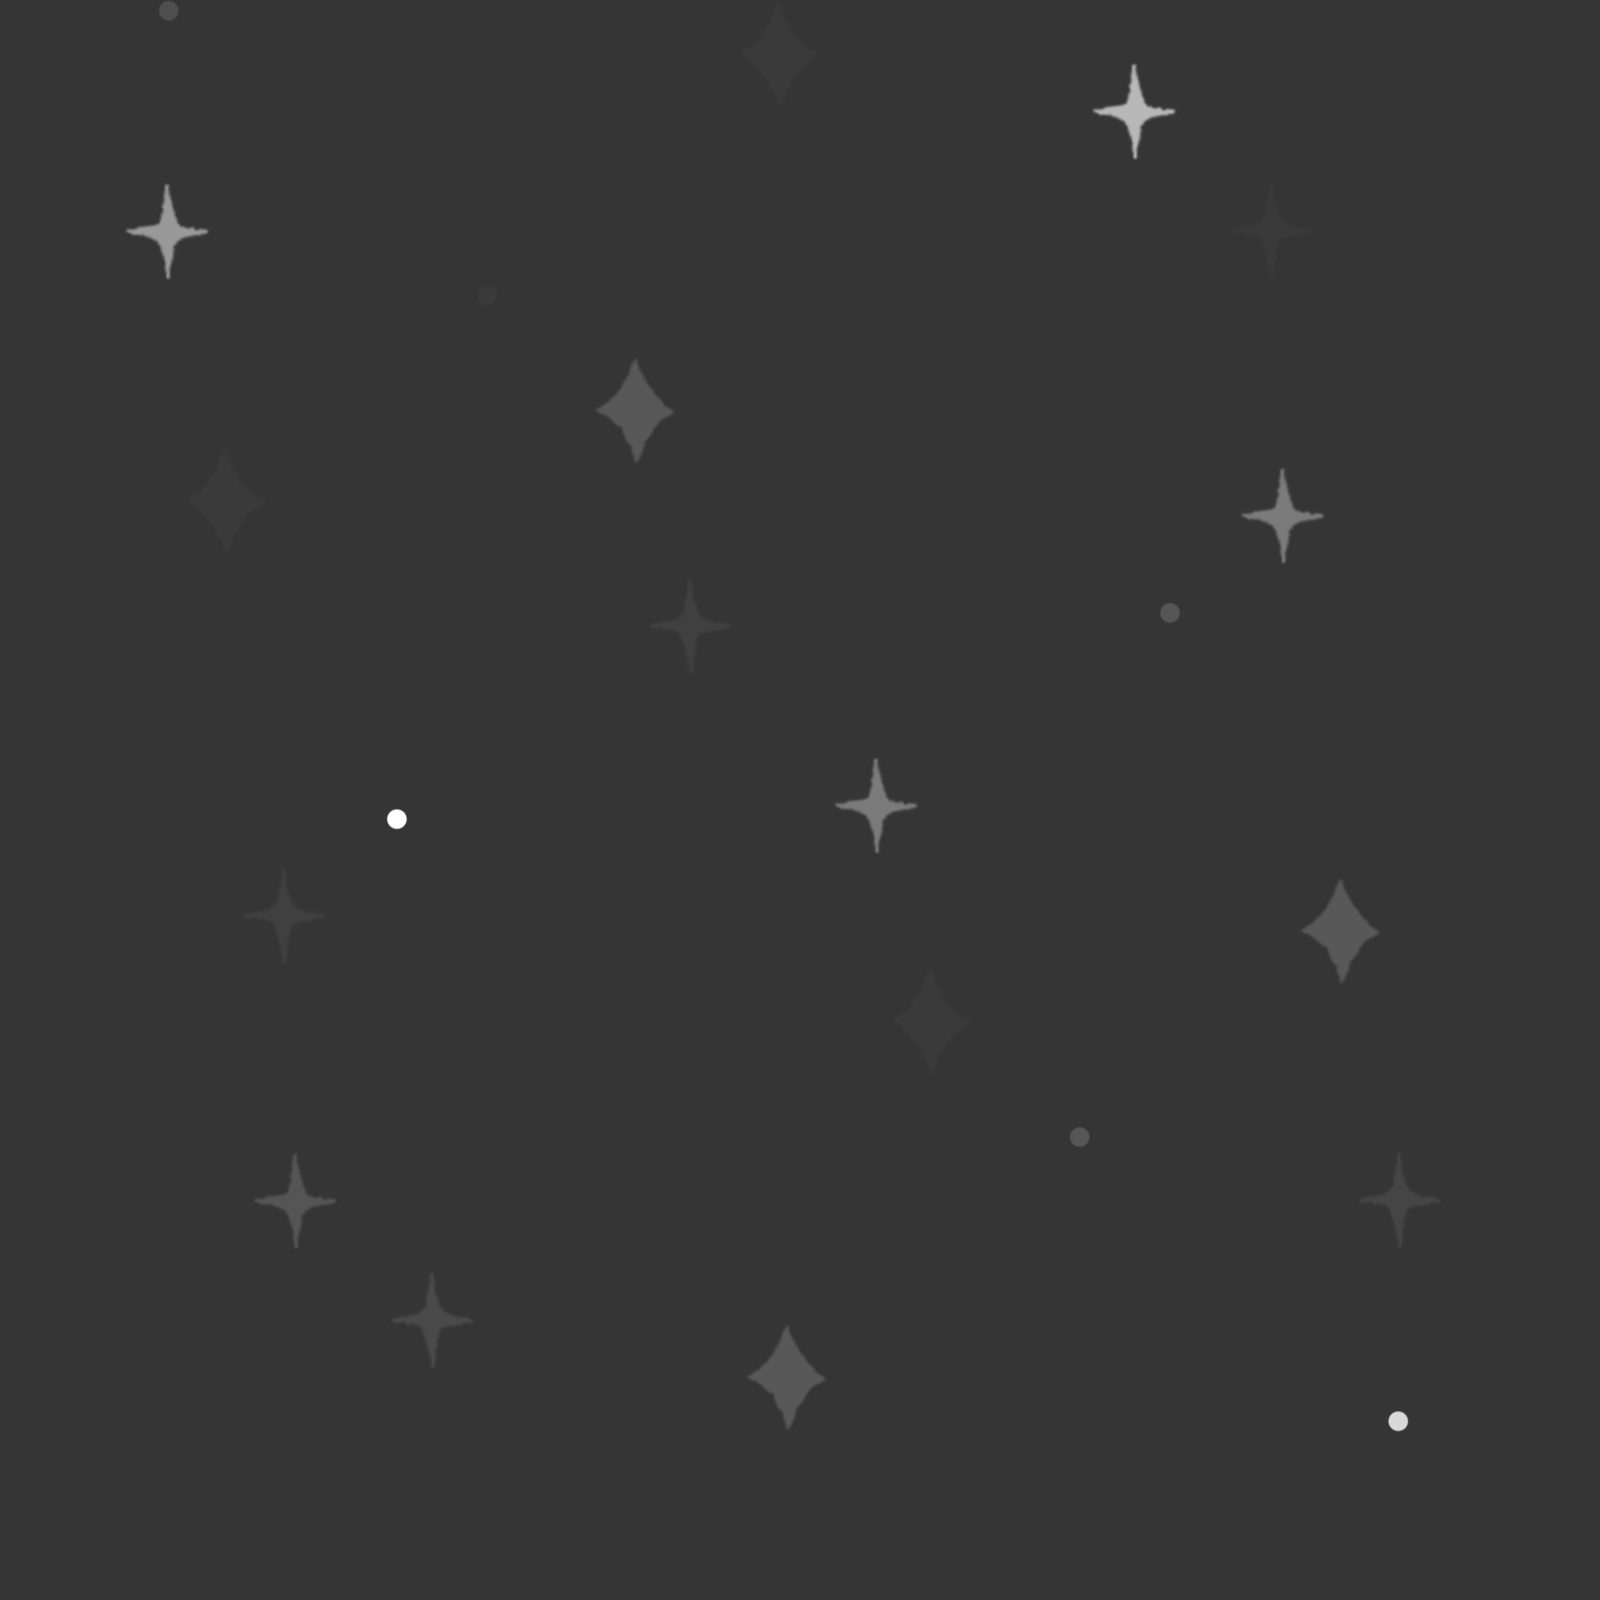
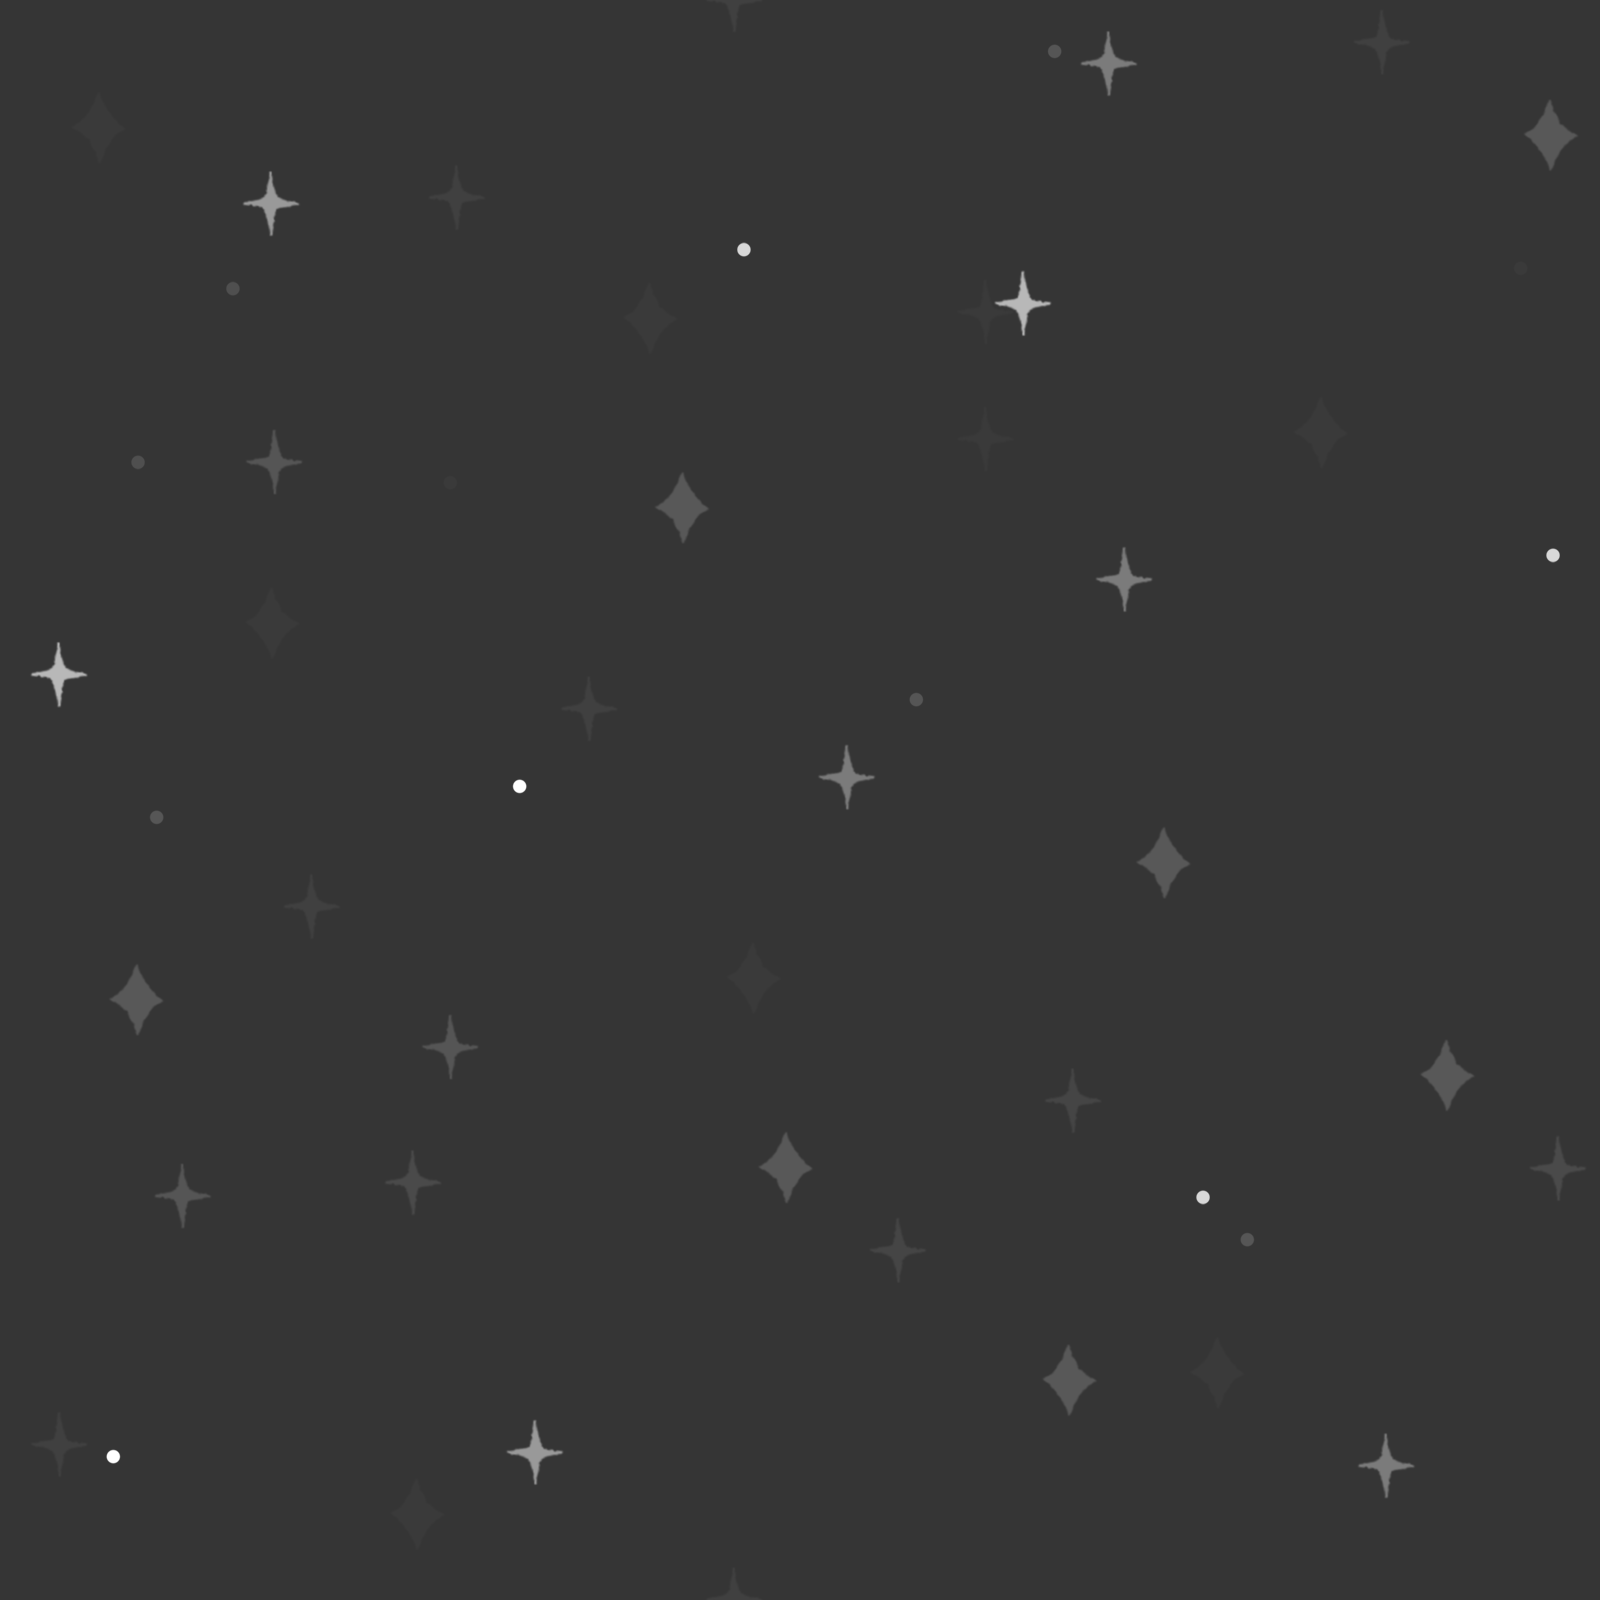
wip

diff --git a/apps/frontend/src/styles.css b/apps/frontend/src/styles.css
@@ -140,14 +140,14 @@ canvas,
 .lobby-pattern-bg {
   background-color: #3a3a3a;
   background-image: url('/assets/png/pattern_1.png');
-  background-size: 240px 240px;
+  background-size: 800px 800px;
   animation: board-pattern-drift 40s linear infinite;
 }
 
 .board-pattern-bg {
   background-color: #e3e3e3;
   background-image: url('/assets/png/pattern_2.png');
-  background-size: 240px 240px;
+  background-size: 800px 800px;
   animation: board-pattern-drift 40s linear infinite;
 }
 

diff --git a/apps/frontend/src/app/features/game/board/board-header.component.ts b/apps/frontend/src/app/features/game/board/board-header.component.ts
@@ -1,5 +1,4 @@
 import {Component, input, output} from '@angular/core';
-import {SvgComponent} from '../../shared/svg/svg.component';
 import {CountdownBarComponent} from '../../shared/countdown-bar/countdown-bar.component';
 import {AnimPresenceDirective} from '../../shared/animations/anim-on-init.directive';
 import type {BoardHeaderViewModel} from './board-view-models';
@@ -7,7 +6,7 @@ import type {BoardHeaderViewModel} from './board-view-models';
 @Component({
     selector: 'app-board-header',
     standalone: true,
-    imports: [SvgComponent, CountdownBarComponent, AnimPresenceDirective],
+  imports: [CountdownBarComponent, AnimPresenceDirective],
     templateUrl: './board-header.component.html',
 })
 export class BoardHeaderComponent {